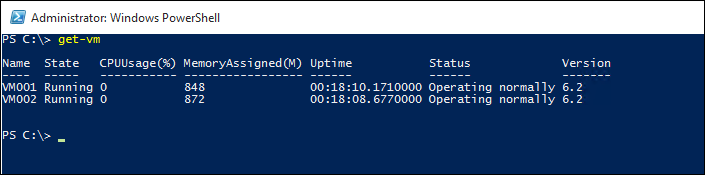
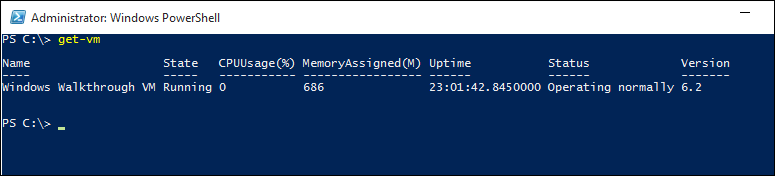
Update PowerShell Walkthrough

diff --git a/virtualization/hyperv_on_windows/quick_start/walkthrough_powershell.md b/virtualization/hyperv_on_windows/quick_start/walkthrough_powershell.md
@@ -13,7 +13,7 @@ Now that you have walked through the basics of deploying Hyper-V, creating virtu
  ```
 get-command –module hyper-v | out-gridview
 ```
-  You get something like this: <!--I'd crop this screenshot to make it shorter and get rid of the whitespace on the left. You only need enough to get the point across. They don't need to see everything..-->
+  You get something like this:
 
   ![](media\command_grid.png)
 
@@ -28,8 +28,6 @@ get-help get-vm
 
 
 ### Return a list of virtual machines
-
-<!--As this is a walkthrough, the exercises should line up with they've already done. We've only had them create one VM titled Windows Walkthrough VM. -->
 
 Use the `get-vm` command to return a list of virtual machines.
 
